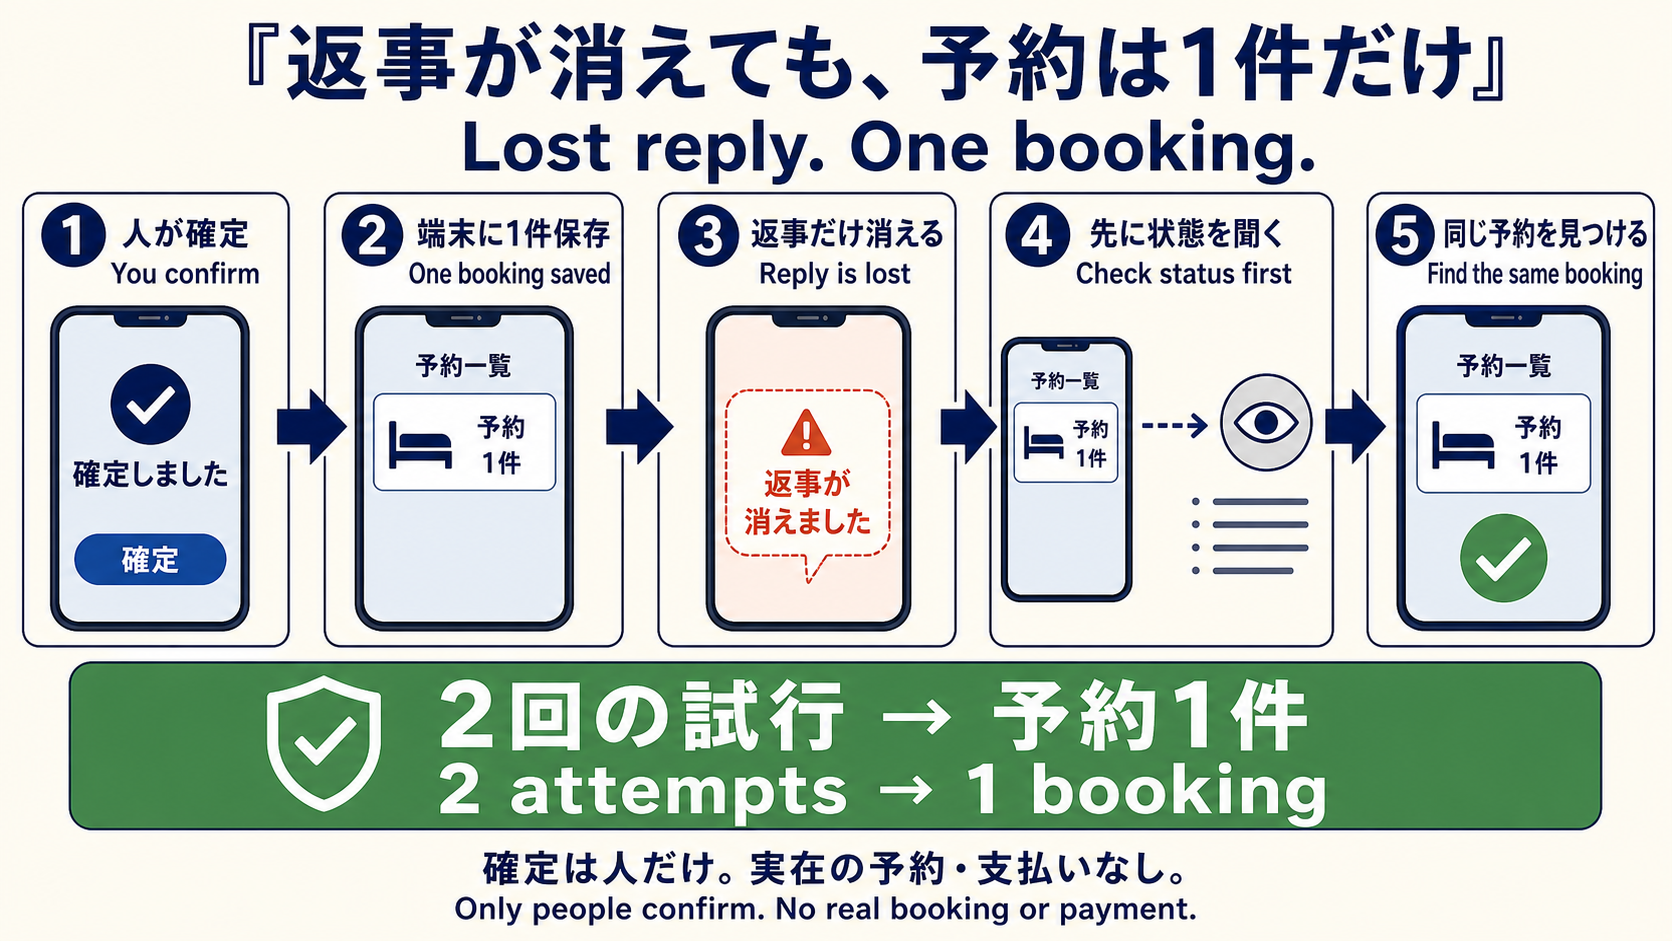
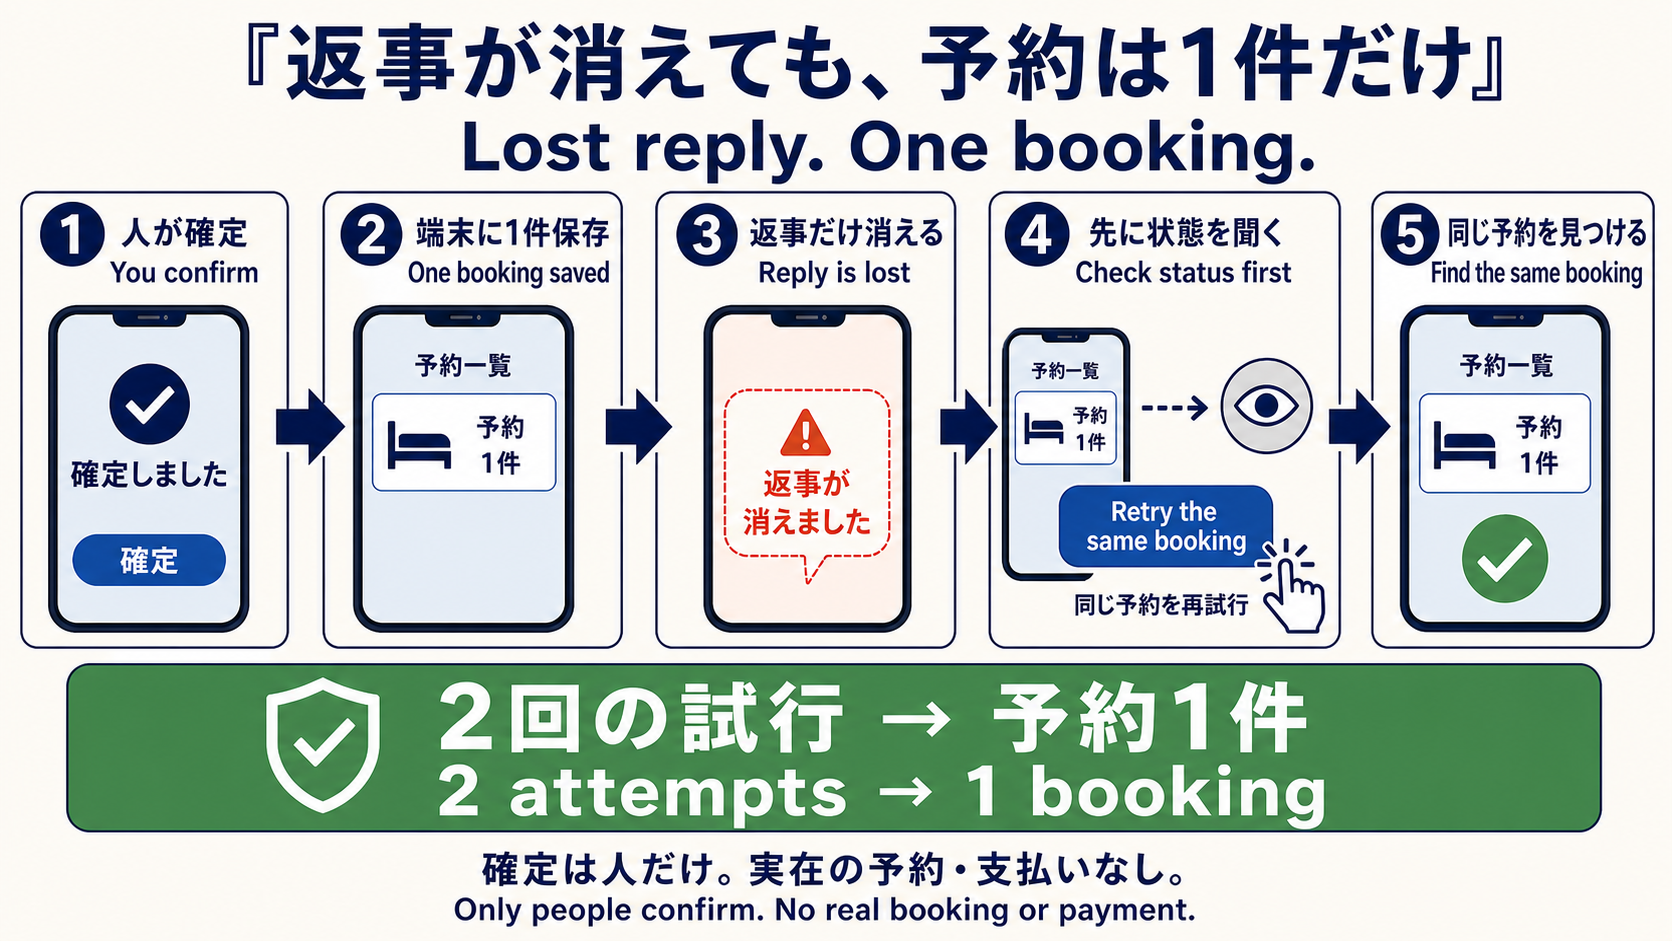
fix: show hotel retry action in diagram

diff --git a/examples/hotel-booking-demo/README.md b/examples/hotel-booking-demo/README.md
@@ -23,9 +23,11 @@ Current public proof: the Vercel production deployment `dpl_AdzeHw7CgM3sbsZBVutZ
 <!-- information_uuid_v5=17898066-d1e0-50f3-96c7-e30c23316f5a -->
 <!-- event_uuid_v7=01a0539e-63c4-7a72-a39b-276bbe0b7d37 state_transition=IMAGE_GENERATED_ONCE -> SOURCE_SHA256_CAPTURED -> README_ASSET_COPIED occurred_at=2026-08-30T17:01:24.292Z -->
 <!-- machine-contract=This explanatory diagram is not measured-screen or real-booking evidence; image_gen_invocations=1; source_sha256=e02b5778dc1f111936919a4cf4b6484330391e05fc69eed9435b8049bc28519c; provenance_record=metadata/hotel-retry-diagram.json; historical_events=UNCHANGED. -->
-![Fictional booking retry diagram: two attempts lead to one booking after checking status first / 架空予約の再送の仕組み図：状態を先に確認し、2回の試行でも予約1件](../../docs/assets/hotel-retry-explained.png)
+<!-- event_uuid_v7=01a0550d-8b4b-77be-a8a3-4d8c5b478e87 state_transition=IMAGE_EDITED_FOR_RETRY_ACTION -> SOURCE_SHA256_CAPTURED -> README_ASSET_COPIED occurred_at=2026-08-30T23:42:26.123Z -->
+<!-- machine-contract=This explanatory diagram remains fictional and non-measured; image_gen_invocations=2 (initial generation plus targeted edit); source_sha256=a8960459316bd8fa1853b3dc42d7ba4583198eff98ced31a375c420dbaebb141; previous_source_sha256=e02b5778dc1f111936919a4cf4b6484330391e05fc69eed9435b8049bc28519c; provenance_record=metadata/hotel-retry-diagram.json; historical_events=RETAINED. -->
+![Fictional booking retry diagram: two attempts lead to one booking after checking status, pressing Retry the same booking, and finding the same booking / 架空予約の再送の仕組み図：状態を確認し、「同じ予約を再試行」を押して同じ予約を見つける](../../docs/assets/hotel-retry-explained.png)
 
-This explanatory diagram shows the fictional retry path: check the device state first, then return the same booking. / この説明図は、再送前に端末の状態を確認し、同じ予約を返す架空デモの流れを示します。
+This explanatory diagram shows the fictional retry path: check the device state first, press Retry the same booking, then return the same booking. / この説明図は、再送前に端末の状態を確認し、「同じ予約を再試行」を押してから同じ予約を返す架空デモの流れを示します。
 It is not a measured screen or evidence of an additional real booking. / 実測画面や追加の実予約の証拠ではありません。
 Only a person makes the final confirmation; there is no real booking or payment. / 最終確定は人だけが行い、実在の予約・支払いはありません。
 
